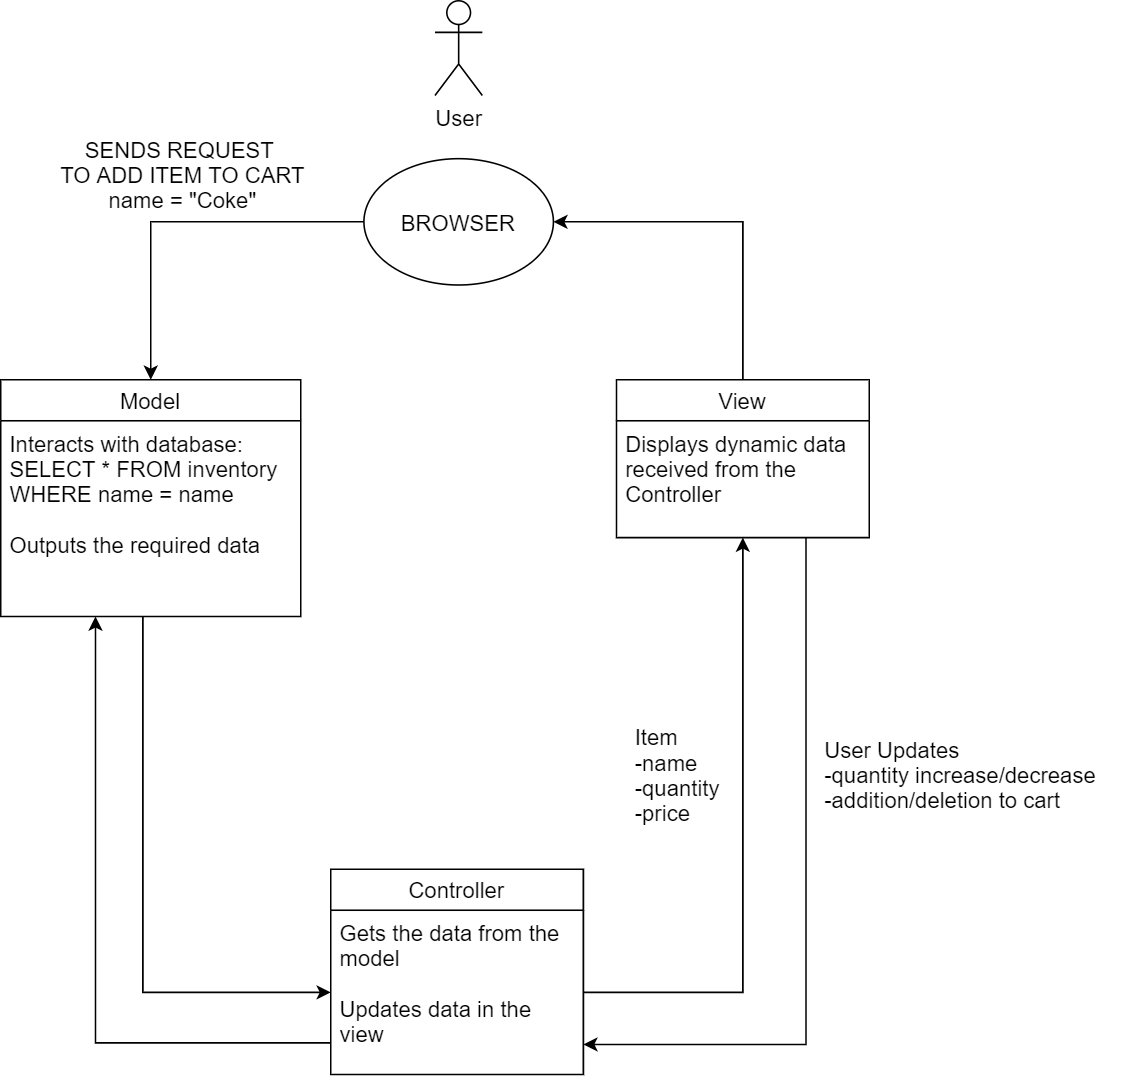
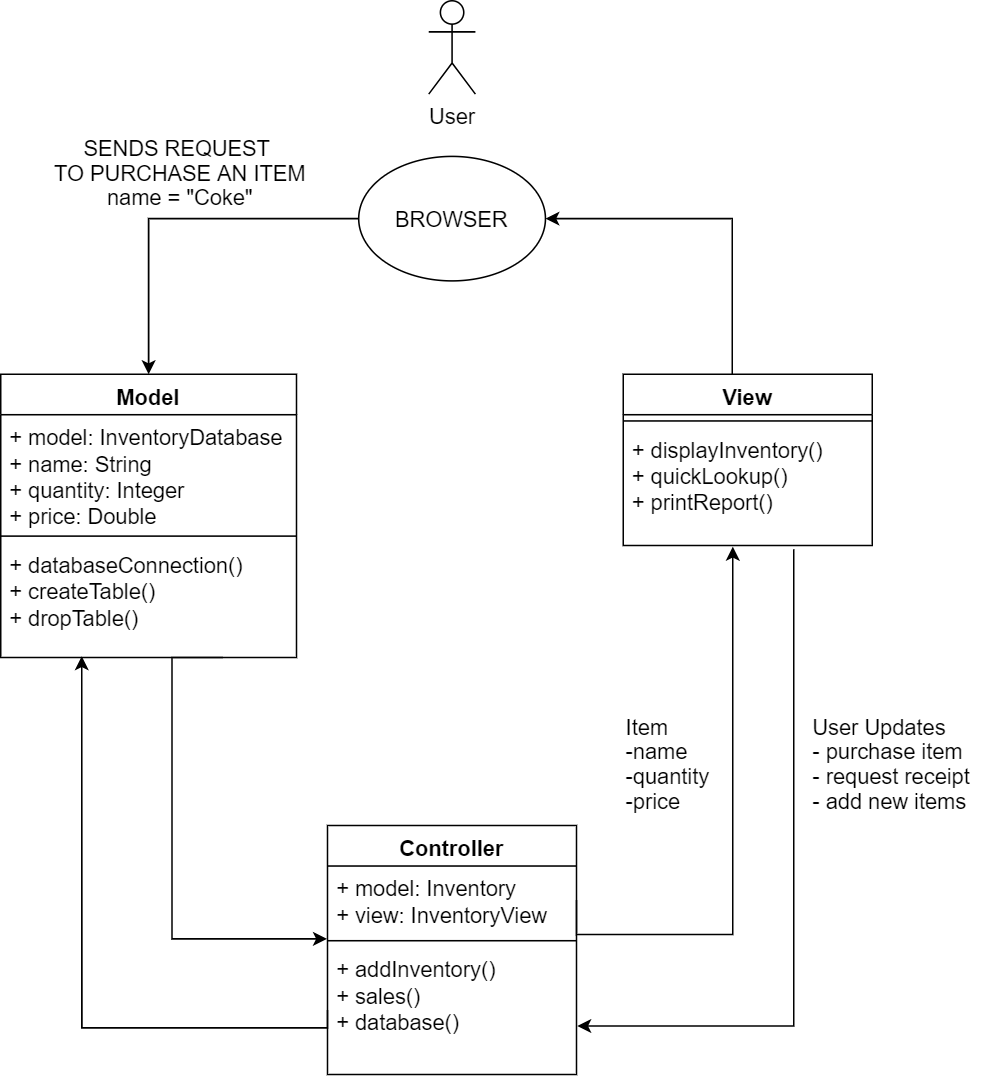
ui integration

diff --git a/src/app/UserInterface.java b/src/app/UserInterface.java
@@ -1,0 +1,87 @@
+package app;
+
+import java.awt.event.*;
+import java.awt.Dimension;
+import javax.swing.*;
+// import java.util.*;
+// import java.util.Scanner;
+
+import javax.swing.JFrame;
+
+// import sun.jvm.hotspot.oops.IntField;
+public class UserInterface {
+    static String itemName;
+    static String price_str = "0";
+    static String stock_str = "0";
+
+    static void Display() {
+        JFrame f1 = new JFrame();
+        JPanel panel1 = new JPanel(null);
+        JLabel label1 = new JLabel("Adding items to inventory!");
+        JLabel label2 = new JLabel("Enter name of the item: ");
+        JLabel label3 = new JLabel("Enter price of the item: ");
+        JLabel label4 = new JLabel("Enter Stock Quantity: ");
+        JTextField text1 = new JTextField();
+        JTextField text2 = new JTextField();
+        JTextField text3 = new JTextField();
+        // JButton btn1=new JButton("SUBMIT");
+        // JButton btn2=new JButton("SUBMIT");
+        JButton btn3 = new JButton("SUBMIT");
+
+        label1.setBounds(200, 10, 300, 50); // x, y, width, height
+
+        label2.setBounds(200, 70, 300, 50); // x, y, width, height
+        text1.setBounds(200, 125, 300, 50);
+        // btn1.setBounds(510, 125, 100, 50);
+
+        label3.setBounds(200, 180, 300, 50);
+        text2.setBounds(200, 235, 300, 50);
+        // btn2.setBounds(510, 235, 100, 50);
+
+        label4.setBounds(200, 290, 300, 50);
+        text3.setBounds(200, 345, 300, 50);
+        btn3.setBounds(510, 345, 100, 50);
+
+        /*
+         * btn1.addActionListener(new ActionListener(){ public void
+         * actionPerformed(ActionEvent e){ //itemName = (text1.getText());
+         * text1.setText(""); //System.out.println(itemName); } });
+         */
+
+        /*
+         * btn2.addActionListener(new ActionListener(){ public void
+         * actionPerformed(ActionEvent e){ //price_str = (text2.getText());
+         * text2.setText(""); //System.out.println(price); } });
+         */
+
+        btn3.addActionListener(new ActionListener() {
+            public void actionPerformed(ActionEvent e) {
+                itemName = (text1.getText());
+                price_str = (text2.getText());
+                stock_str = (text3.getText());
+                text3.setText("");
+                // System.out.println(stock);
+            }
+        });
+
+        double price = Double.parseDouble(price_str);
+        int stock = Integer.parseInt(stock_str);
+        System.out.println(price + " is the price.\n" + stock + " is the stock.");
+
+        panel1.add(label1);
+        panel1.add(label2);
+        panel1.add(label3);
+        panel1.add(label4);
+        panel1.add(text1);
+        // panel1.add(btn1);
+        panel1.add(text2);
+        // panel1.add(btn2);
+        panel1.add(text3);
+        panel1.add(btn3);
+
+        f1.add(panel1);
+        f1.setPreferredSize(new Dimension(900, 600));
+        f1.pack();
+        f1.setVisible(true);
+    }
+}

diff --git a/src/app/Inventory.java b/src/app/Inventory.java
@@ -6,6 +6,7 @@ import java.util.Scanner;
 class Inventory {
 
     void addInventory() throws Exception {
+        UserInterface.Display();
         System.out.println("\nAdding items to inventory!");
         Scanner in1 = new Scanner(System.in);
         System.out.print("Enter name of the item: ");
@@ -153,7 +154,6 @@ class Inventory {
                 System.out.println(name + "\t\t" + stock);
             }
         }
-
     }
 
     void printReport() throws Exception {
